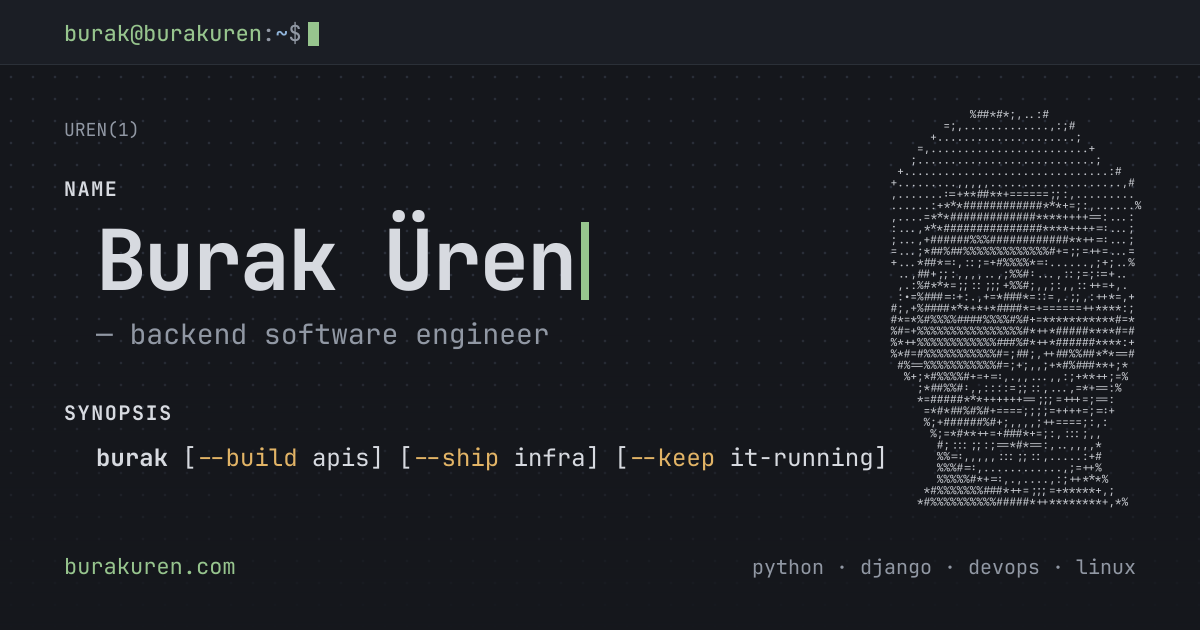
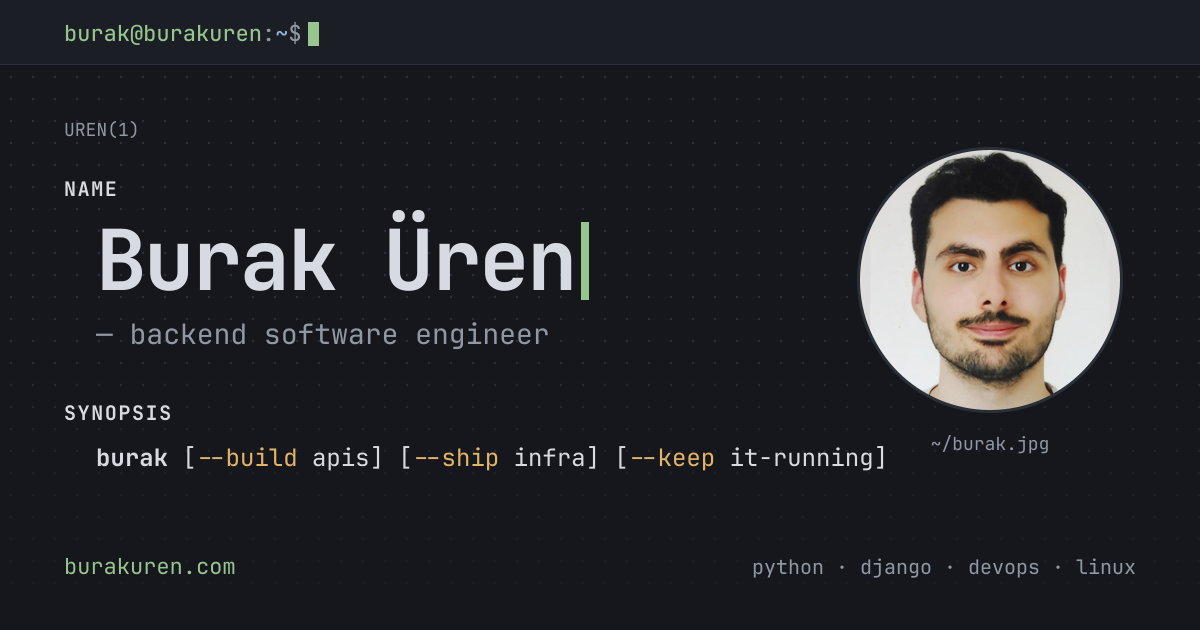
Use the photo everywhere instead of the ASCII portrait
- New Avatar component serves the photo as AVIF and WebP with a JPEG
  fallback, at 1x and 2x
- Blog post "whoami" box now shows the photo; the ASCII portrait
  component, data and styles are removed
- Re-crop burak.jpg to match the design framing, with a little more
  room below the chin
- Social card (og.png) shows the photo instead of the ASCII art

Changed region(s): [[0.7092, 0.181, 0.9558, 0.8143], [0.8633, 0.181, 0.8942, 0.2111]]

diff --git a/src/styles/global.css b/src/styles/global.css
@@ -564,7 +564,7 @@ a.tag:hover {
   align-items: center;
   gap: 8px;
 }
-.photo img {
+.photo .avatar {
   display: block;
   width: 152px;
   height: 152px;
@@ -576,36 +576,6 @@ a.tag:hover {
   font-size: 12px;
   line-height: 1.4;
   color: var(--muted);
-}
-
-/* Drawn at 12px and zoomed down, so it reads as an image rather than as
-   tiny body text to legibility audits. Visual size: 6px. */
-.portrait {
-  margin: 0;
-  flex: none;
-  font-family: var(--mono);
-  font-size: 12px;
-  zoom: 0.5;
-  line-height: 1.08;
-  letter-spacing: 0;
-  color: var(--text);
-}
-.portrait-light {
-  display: none;
-}
-:root[data-theme='light'] .portrait-dark {
-  display: none;
-}
-:root[data-theme='light'] .portrait-light {
-  display: block;
-}
-@media (prefers-color-scheme: light) {
-  :root:not([data-theme]) .portrait-dark {
-    display: none;
-  }
-  :root:not([data-theme]) .portrait-light {
-    display: block;
-  }
 }
 
 .fetch-info {
@@ -1609,8 +1579,13 @@ a.ls-name:hover {
   border: 1px solid var(--line);
   border-radius: 8px;
 }
-.author .portrait {
-  zoom: 0.2833;
+.author .avatar {
+  display: block;
+  width: 96px;
+  height: 96px;
+  border-radius: 50%;
+  border: 2px solid var(--line);
+  background: var(--bg);
 }
 .author-copy {
   flex: 1 1 280px;
